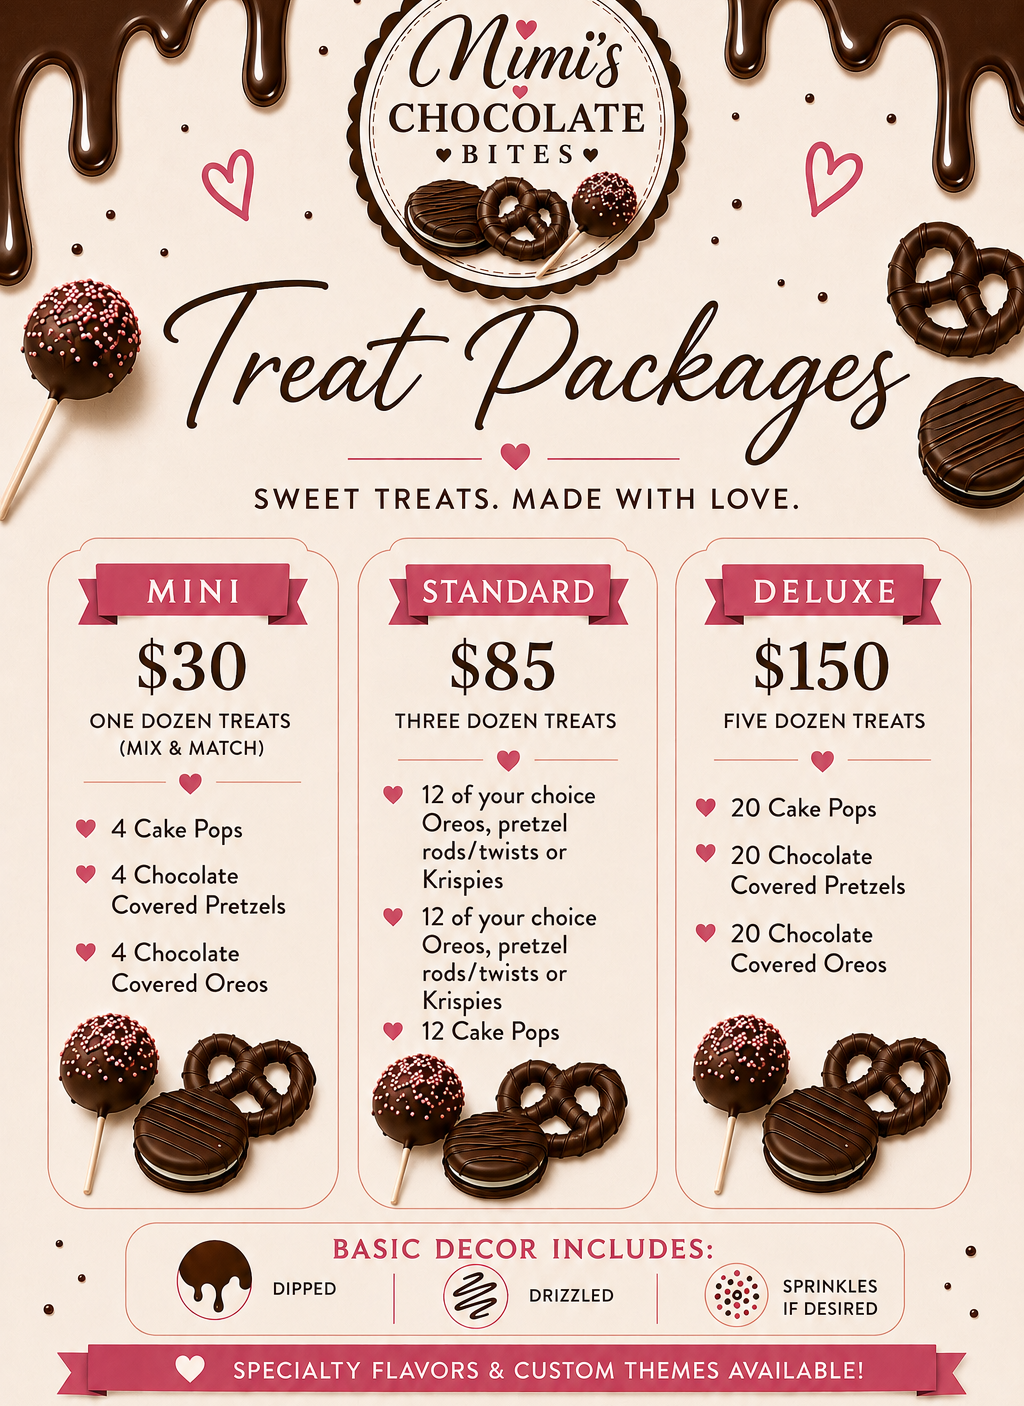
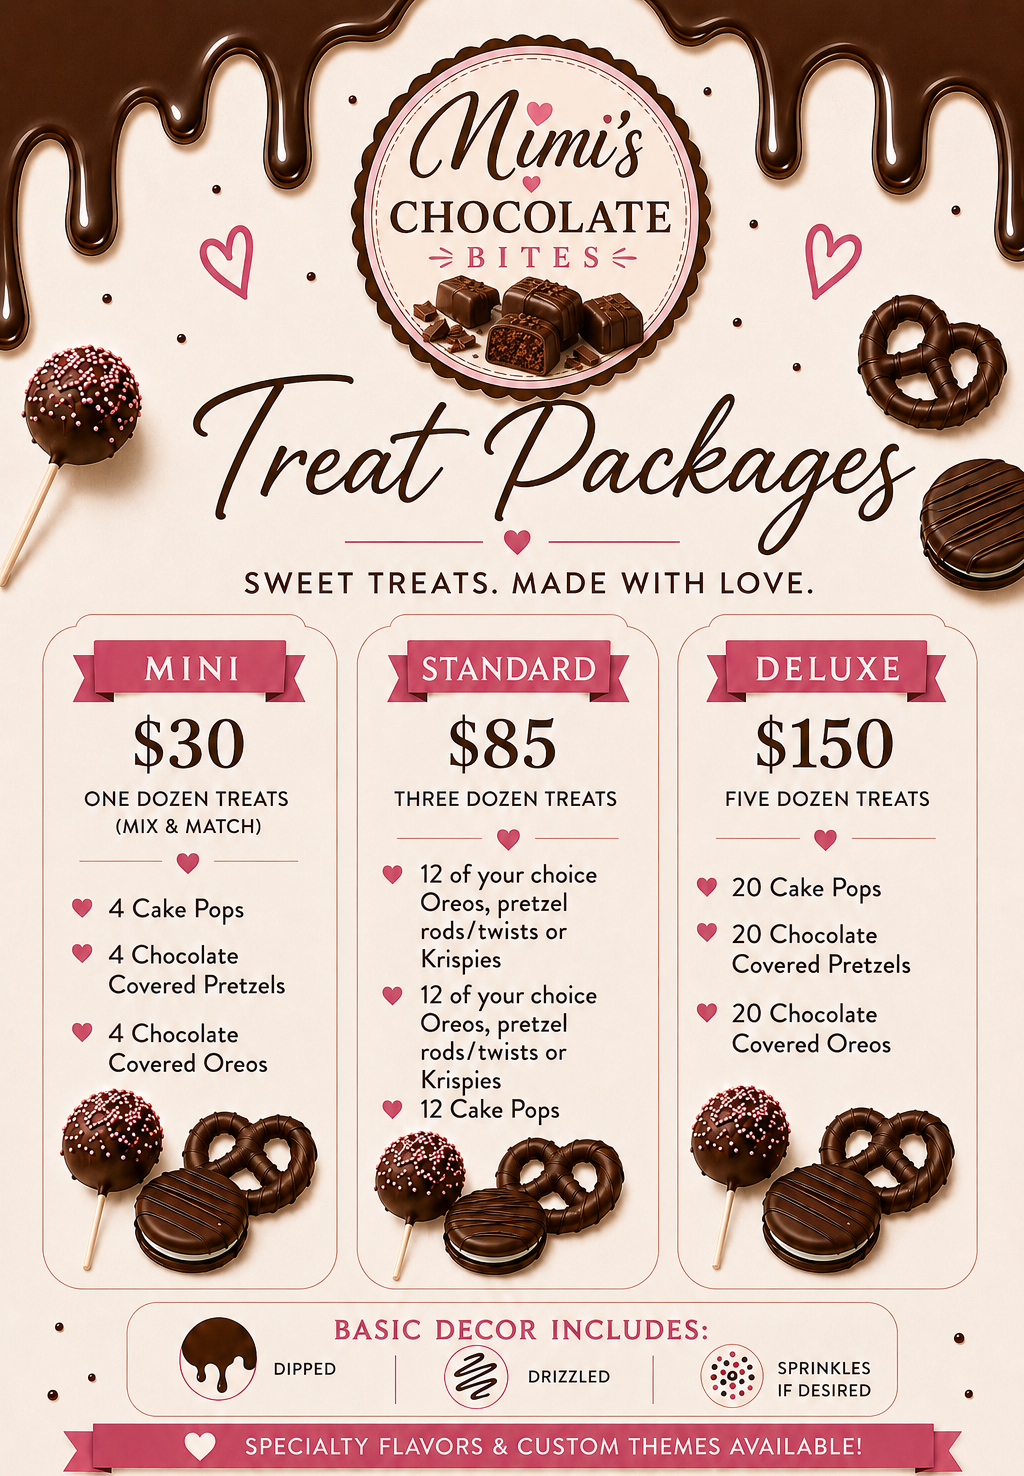
Pricing: swap in Mimi's revised Treat Packages flyer (new badge art)
Same prices and package contents — the revision replaces the badge's
photo treats with illustrated bonbons and shifts the layout ~70px down,
so the web crop line moves from 1406 to 1476 (still keeps the specialty
ribbon, still drops the www footer row).

diff --git a/flyers/crop-treats.py b/flyers/crop-treats.py
@@ -21,6 +21,11 @@ OUT = HERE.parent / 'public' / 'img' / 'treats'
 
 DOZEN = HERE / '9753E63E-A751-464A-B6DF-6B3FC431339F.PNG'  # pink "By the Dozen"
 PACKAGES = HERE / '4F6B7A88-21B0-44DC-B5D1-E66FC18517F5.PNG'  # cream "Treat Packages"
+# 948465AB-….PNG is her 2026-08 revision of the packages flyer (new badge art,
+# layout shifted ~70px down; pricing unchanged). The pricing page's
+# public/img/flyers/treat-packages.png is now cropped from IT (top 1024×1476).
+# The treat/decor/drip boxes below still key off the ORIGINAL flyer — its
+# treat regions are identical and these boxes were hand-tuned to it.
 
 # Background colours sampled from each flyer. DOZEN_PANEL is kept for reference
 # — that flyer is the drawing reference for TreatIllustration.astro, not a crop
